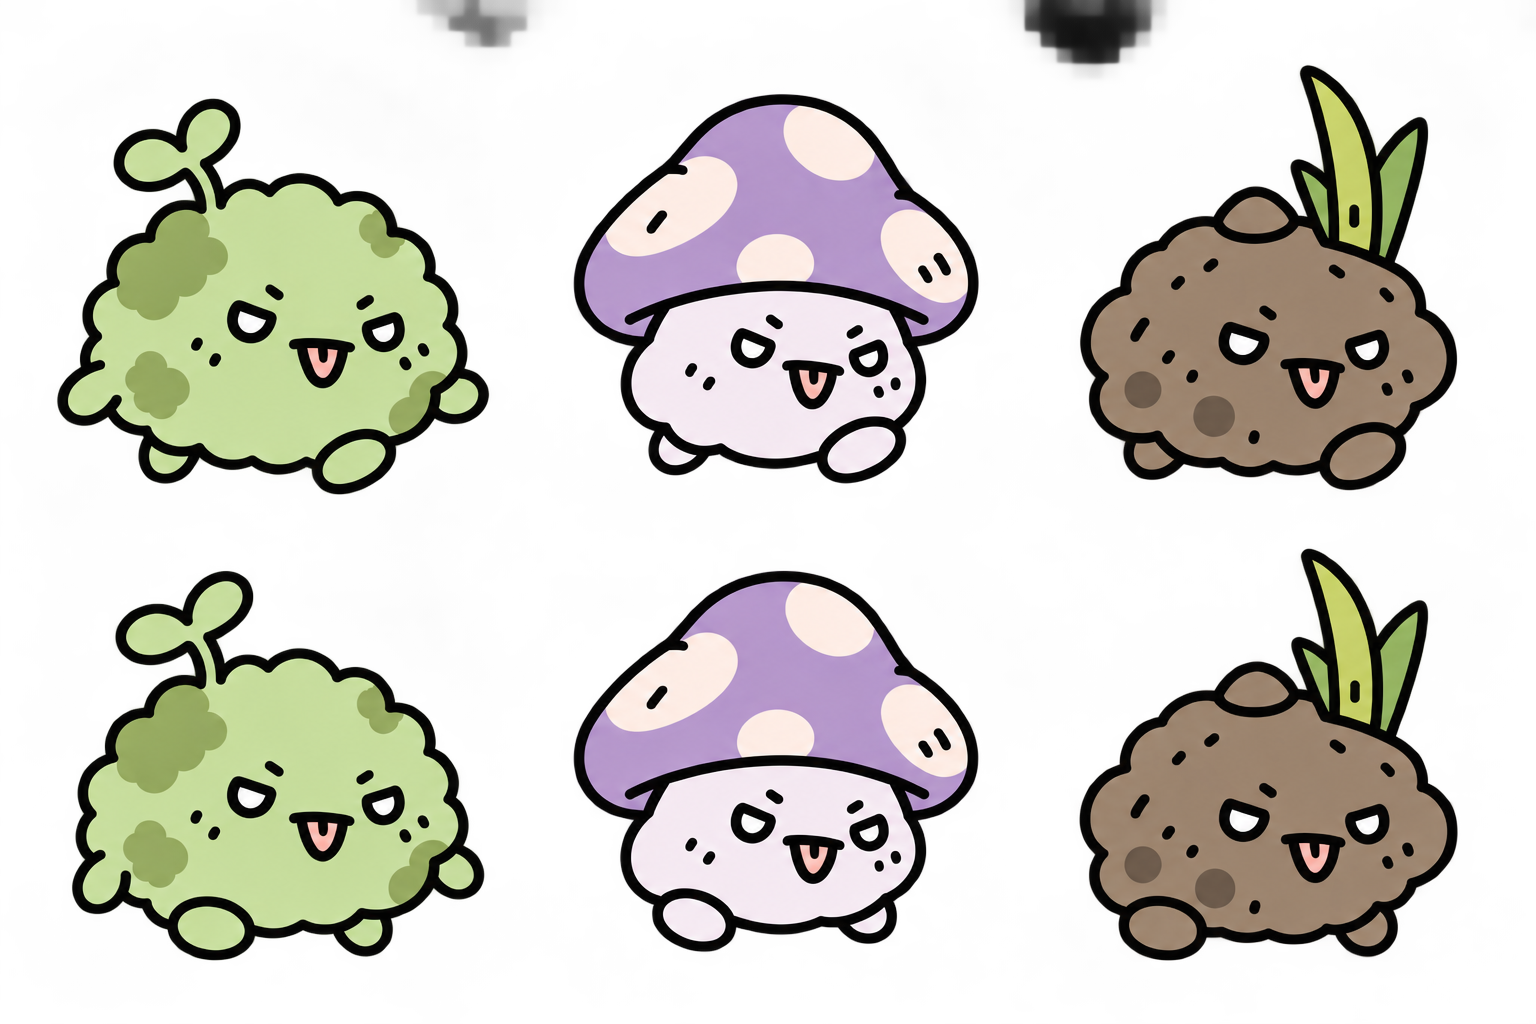
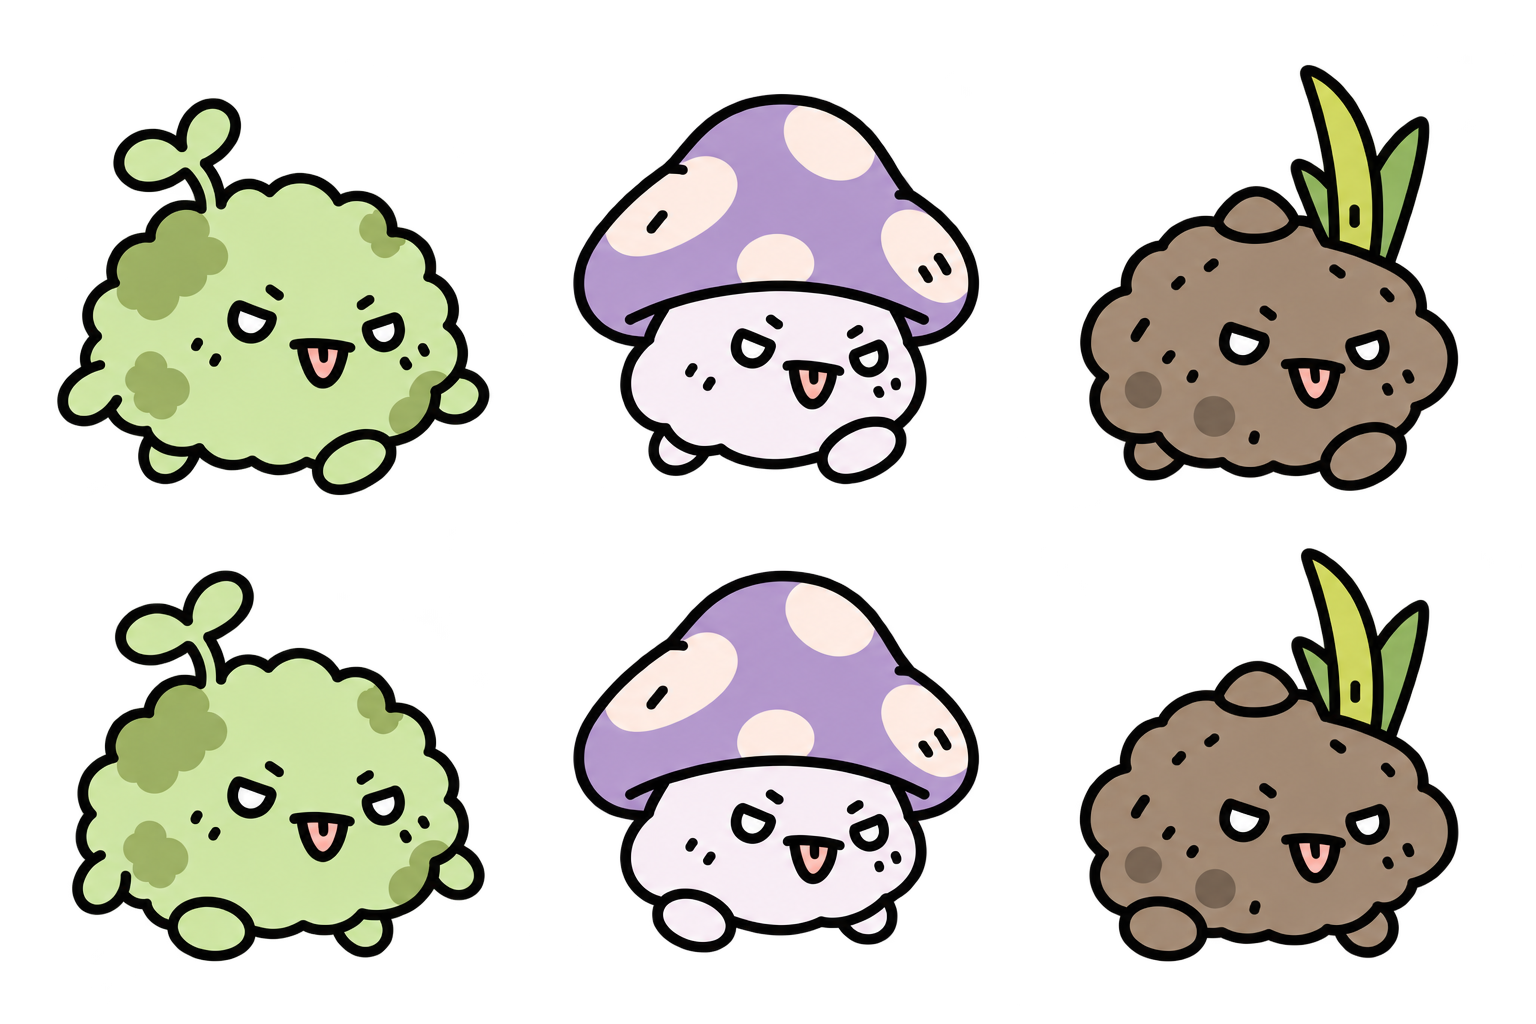
Remove stray swamp art and refresh skill and companion descriptions

diff --git a/Documentation/skill-companion-catalog.md b/Documentation/skill-companion-catalog.md
@@ -1,6 +1,6 @@
 # 스킬·동료 목록
 
-일반~신화 각 4종. 기존 ID를 유지하여 보유 조각·레벨을 저장에서 이어받는다. 갓은 장비에만 존재한다.
+일반~신화 각 4종, 각각 24종이다. 기존 ID로 보유 조각·레벨을 이어받으며 갓은 장비에만 존재한다. 스킬은 장착한 경우에만 자동 발동한다.
 
 ## 스킬
 
@@ -19,8 +19,8 @@
 | 희귀 | 번개 타격 | 빠른 번개로 적들을 공격합니다. |
 | 희귀 | 화염병 | 지면에 남는 불꽃으로 지속 피해를 줍니다. |
 | 영웅 | 꼬마 용 | 용이 전장을 가로지르며 적을 공격합니다. |
-| 영웅 | 태양 불꽃 | 강화된 불꽃의 힘이 공격 보너스를 제공합니다. |
-| 영웅 | 고대의 뱀 | 고대 뱀의 힘이 공격 보너스를 제공합니다. |
+| 영웅 | 태양 불꽃 | 주변에 불꽃 고리를 만들어 적을 공격합니다. |
+| 영웅 | 고대의 뱀 | 여러 뱀이 퍼져 나가 이동 경로의 적을 공격합니다. |
 | 영웅 | 벽돌 세례 | 벽돌 6개를 연속으로 던집니다. |
 | 전설 | 가지 삼지창 | 가지를 세 방향으로 동시에 던집니다. |
 | 전설 | 두리안 연발 | 두 배 크기의 두리안을 2연발로 튕깁니다. |
@@ -35,27 +35,29 @@
 
 | 등급 | 이름 | 동작 |
 | --- | --- | --- |
-| 일반 | 구름 고양이 | 근처 적을 향해 날카로운 할퀴기를 날립니다. |
-| 일반 | 버섯 친구 | 주변 적을 향해 포자 세 개를 흩뿌립니다. |
-| 일반 | 꼬마 박쥐 | 적에게 돌진하며 공격하고 플레이어 곁으로 돌아옵니다. |
-| 일반 | 돌멩이 친구 | 작은 돌을 던져 주변 적을 공격합니다. |
-| 고급 | 구름 새 | 바람탄 세 개를 날려 적을 공격합니다. |
-| 고급 | 초록 악마 | 불꽃 세 발로 주변 적을 공격합니다. |
-| 고급 | 로봇 친구 | 플레이어를 따라다니며 미사일 20발을 연사합니다. |
-| 고급 | 포자 요정 | 주변 적을 향해 포자 세 개를 흩뿌립니다. |
-| 희귀 | 로봇 드론 | 플레이어를 따라다니며 미사일 20발을 연사합니다. |
-| 희귀 | 수호 검 | 근처 적을 향해 검을 휘둘러 검기를 발사합니다. |
-| 희귀 | 회전 총 | 플레이어 주위를 돌며 주변 적에게 총알을 연사합니다. |
-| 희귀 | 보라 뱀 친구 | 보라 독사를 닮은 독니를 날립니다. |
-| 영웅 | 폭풍 친구 | 주변 적을 번개로 공격합니다. |
-| 영웅 | 검의 정령 | 근처 적을 향해 검을 휘둘러 검기를 발사합니다. |
-| 영웅 | 불꽃 정령 | 불꽃 세 발로 주변 적을 공격합니다. |
-| 영웅 | 서리 여우 | 서리탄 세 발로 주변 적을 공격합니다. |
-| 전설 | 꼬마 용 친구 | 작은 화염 세 발을 뿜습니다. |
-| 전설 | 별빛 고양이 | 별빛 표창 세 개를 날립니다. |
-| 전설 | 벽돌 골렘 | 벽돌 세 개를 던져 주변 적을 공격합니다. |
-| 전설 | 표창 너구리 | 회전 표창을 세 방향으로 날립니다. |
-| 신화 | 황금 드론 | 플레이어를 따라다니며 미사일 20발을 연사합니다. |
-| 신화 | 태양 로봇 | 플레이어를 따라다니며 미사일 20발을 연사합니다. |
-| 신화 | 고대 용 | 작은 화염 세 발을 뿜습니다. |
-| 신화 | 꿀벌 기사 | 적에게 돌진하며 공격하고 플레이어 곁으로 돌아옵니다. |
+| 일반 | 가지몬 | 직선으로 1발을 발사합니다. |
+| 일반 | 양파몬 | 포물선으로 1발을 발사합니다. |
+| 일반 | 덩굴방망이 | 직선으로 1발을 발사합니다. |
+| 일반 | 달빛지팡이 | 직선으로 1발을 발사합니다. |
+| 고급 | 새싹탱크 | 직선으로 1발을 발사합니다. 적중하면 주변에 폭발 피해를 줍니다. |
+| 고급 | 너트로봇 | 직선으로 2발을 순서대로 발사합니다. |
+| 고급 | 이슬요정 | 직선으로 2발을 동시에 발사합니다. |
+| 고급 | 도토리다람쥐 | 포물선으로 2발을 순서대로 발사합니다. |
+| 희귀 | 주전자몬 | 포물선으로 3발을 순서대로 발사합니다. 적중하면 주변에 폭발 피해를 줍니다. |
+| 희귀 | 전구로봇 | 직선으로 3발을 동시에 발사합니다. 적중하면 주변에 폭발 피해를 줍니다. |
+| 희귀 | 구름친구 | 번개를 내려 3발을 순서대로 발사합니다. 적중하면 주변에 폭발 피해를 줍니다. |
+| 희귀 | 태엽오리 | 직선으로 3발을 순서대로 발사합니다. |
+| 영웅 | 꿀벌전차 | 포물선으로 4발을 동시에 발사합니다. 적중하면 주변에 폭발 피해를 줍니다. |
+| 영웅 | 시계로봇 | 직선으로 4발을 순서대로 발사합니다. 적중하면 주변에 폭발 피해를 줍니다. |
+| 영웅 | 서리여우 | 직선으로 4발을 동시에 발사합니다. 적중하면 주변에 폭발 피해를 줍니다. |
+| 영웅 | 마법책 | 포물선으로 4발을 순서대로 발사합니다. 적중하면 주변에 폭발 피해를 줍니다. |
+| 전설 | 두리안골렘 | 포물선으로 5발을 순서대로 발사합니다. 적중하면 주변에 폭발 피해를 줍니다. |
+| 전설 | 달빛요정 | 직선으로 5발을 동시에 발사합니다. 적중하면 주변에 폭발 피해를 줍니다. |
+| 전설 | 바주카 | 포물선으로 5발을 순서대로 발사합니다. 적중하면 주변에 폭발 피해를 줍니다. |
+| 전설 | 스나이퍼 | 직선으로 5발을 순서대로 발사합니다. 적중하면 주변에 폭발 피해를 줍니다. |
+| 신화 | 성운탱크 | 포물선으로 6발을 순서대로 발사합니다. 적중하면 주변에 폭발 피해를 줍니다. |
+| 신화 | 태양로봇 | 직선으로 8발을 순서대로 발사합니다. 적중하면 주변에 폭발 피해를 줍니다. |
+| 신화 | 빙하요정 | 직선으로 6발을 동시에 발사합니다. 적중하면 주변에 폭발 피해를 줍니다. |
+| 신화 | 용과드래곤 | 포물선으로 8발을 순서대로 발사합니다. 적중하면 주변에 폭발 피해를 줍니다. |
+
+동료는 각자의 완성 캐릭터 두 컷과 별도 발사체 그림을 사용한다. 걷기/날갯짓 레퍼런스 및 생성 프롬프트는 [두 컷 제작 기록](two-frame-actors-and-loadouts.md)에 있다.

diff --git a/Documentation/two-frame-actors-and-loadouts.md b/Documentation/two-frame-actors-and-loadouts.md
@@ -202,6 +202,10 @@ References: []
 
 Precise edit to ONE foot only in transparent 3x2 sprite atlas. TOP CENTER mummy cat: its SCREEN-LEFT foot is currently a large forward oval. Make this left foot a SMALL tucked-back semicircle, roughly half the current area, partly behind the head's bottom contour. Keep TOP CENTER SCREEN-RIGHT foot large and forward. Thus TOP CENTER matches TOP LEFT stone's foot pose; BOTTOM CENTER keeps large left foot/small right foot unchanged. Do not add arms or loose bandage ribbon. Preserve all eyes/face/head/body/hat and remaining five sprites exactly. Transparent RGBA. Only redraw top-center character's left foot.
 
+### SwampCleanFinal
+
+Precise transparent-background cleanup ONLY. This 1536x1024 three-column/two-row complete monster atlas has a stray dark disconnected fragment at the VERY TOP EDGE near x=1023..1163,y=0..68 (above and left of the TOP RIGHT brown mud monster). Remove ONLY this stray background fragment to full transparency. Preserve ALL SIX complete characters pixel-for-pixel, including exact eyes, head shapes, walking foot poses, arms and grass/mushroom details, their scale and positions. The mud monster's actual tall grass starts at x about 1230,y65 and must remain intact. Do not remove actual character outlines or change any design. Maintain transparent RGBA image, same dimensions and layout; no new art, captions or scenery.
+
 ## Selected thumbnail and attack outputs
 
 - `SkillThumbsNormal.png` ← `exec-8c29b112-bf71-4f16-89ca-152de3ad210d.png`
@@ -220,7 +224,7 @@ Precise edit to ONE foot only in transparent 3x2 sprite atlas. TOP CENTER mummy 
 - `Assets/DoodleIdle/Resources/DoodleIdle/Themes/Meadow.png` <- `exec-eb7273f6-ad3e-40f2-8182-cdaac5f2f517.png`
 - `Assets/DoodleIdle/Resources/DoodleIdle/Themes/Desert.png` <- `exec-e077001c-9a7a-4605-99f3-f2b3844dbfb6.png`
 - `Assets/DoodleIdle/Resources/DoodleIdle/Themes/Forest.png` <- `exec-eff9aee8-cb30-4cbf-b694-45520e601cfd.png`
-- `Assets/DoodleIdle/Resources/DoodleIdle/Themes/Swamp.png` <- `exec-9c347cc3-c150-4c83-963e-b93f29e627c5.png`
+- `Assets/DoodleIdle/Resources/DoodleIdle/Themes/Swamp.png` <- `exec-727f7a62-cae3-4d2e-bbea-236987c1631d.png`
 - `Assets/DoodleIdle/Resources/DoodleIdle/Themes/Volcano.png` <- `exec-eeaa53b9-217a-459d-909a-588460fd415d.png`
 - `Assets/DoodleIdle/Resources/DoodleIdle/Themes/Coast.png` <- `exec-22ac4794-9fd8-43dd-a176-1764429404eb.png`
 - `Assets/DoodleIdle/Resources/DoodleIdle/Themes/Crystal.png` <- `exec-88abf050-7868-4ea7-9e48-ba7f616da005.png`
